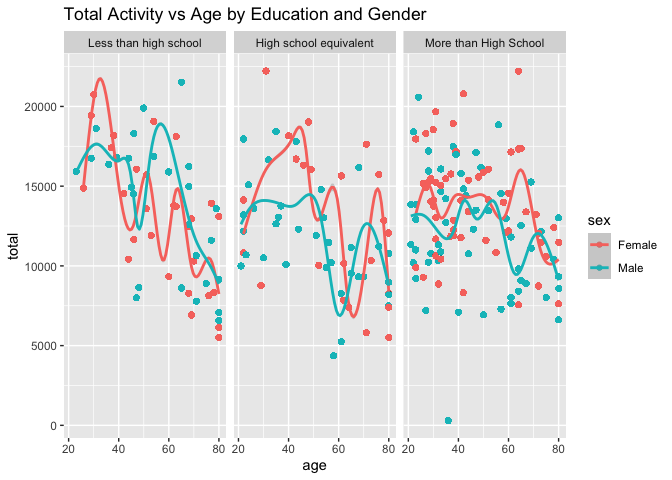
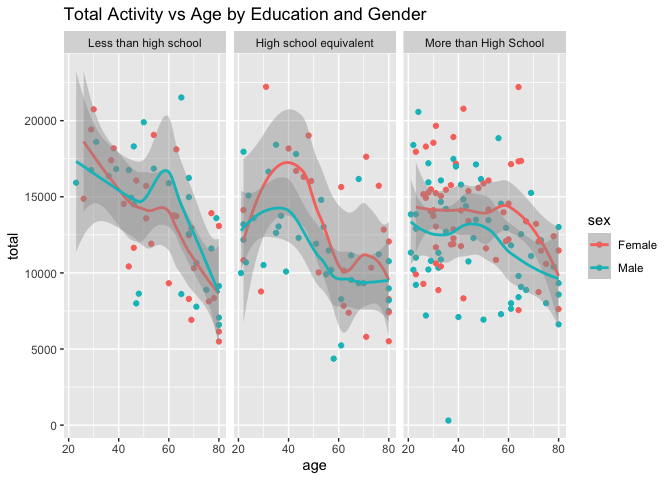
Finished the discrption part of this HW.

diff --git a/p8105_hw3_ys3765.md b/p8105_hw3_ys3765.md
@@ -3,7 +3,7 @@ p8105_hw3_ys3765
 Yixiao Sun
 2023-10-09
 
-\#Problem 1
+\#Load packages
 
 ``` r
 library(tidyverse)
@@ -23,7 +23,6 @@ library(tidyverse)
 ``` r
 library(p8105.datasets)
 library(ggplot2)
-data("instacart")
 ```
 
 \#Problem 2
@@ -95,28 +94,37 @@ print(states_2010)
     ## 13 Overall Health TX              16
     ## 14 Overall Health WA              10
 
+For year 2022, these following 6 states were observed at 7 or more
+locations:CT, FL, MA, NC, NJ, PA.
+
+For year 2010, these following 14 states were observed at 7 or more
+locations:CA, CO, FL, MA, MD, NC, NE, NJ, NY, OH, PA, SC, TX, WA.
+
+For this graph, the plot shows in each state the line pattern of people
+giving excellent response from year 2002 to year 2010.
+
 ``` r
 excellent<-df1_grouped_ordered%>%
   filter(response == "Excellent")%>%
   group_by(year,locationabbr)%>%
-  summarise(average = mean(data_value,.groups='drop'))
-```
+  summarise(average = mean(data_value),.groups='drop')
 
-    ## `summarise()` has grouped output by 'year'. You can override using the
-    ## `.groups` argument.
-
-``` r
 ggplot(excellent, aes(x = year, y = average, group = locationabbr, color = locationabbr)) +
   geom_line() +
   labs(title = "Average Value of 'Excellent' Responses Over Time", 
        x = "Year", 
-       y = "Average Value") +
-  theme_minimal() 
+       y = "Average Value")
 ```
 
     ## Warning: Removed 3 rows containing missing values (`geom_line()`).
 
 ![](p8105_hw3_ys3765_files/figure-gfm/construct-1.png)<!-- -->
+
+This following plot is used to compare the data value in NY between year
+2006 and year 2010 in different response group(From “Poor” to
+“Excellent”). It can be seen from the plot that though other classes
+responses didn’t make much differences, the overall values of the
+response “Very good” in 2010 is higher than that of 2006.
 
 ``` r
 ny_data <- df1_grouped_ordered %>%
@@ -180,21 +188,32 @@ clean_data <- merge_data %>%
                             ordered = TRUE))
 ```
 
+This is the first step, to import, clean, and combine the `nhanes_accel`
+and `nhanes_covar` datasets. I used the `pivot_longer` function to tidy
+the `nhanes_accel` dataset so it can be more clear for us to see more
+values. And using `mutate` ,`recode`, and `factor` function to set
+levels for the variables “Education Level” and “Sex”. And the final
+merged dataset,after exclude the participants less than 21 years of age
+and those who has missing values, the `clean_data` has in total 328320
+rows and 7 columns.
+
+This following table is to show the number of men and women in each
+education category. And with the following visualization of age
+distributions for men and women in each education category, we can see
+that for “Less than High School” and “More than High School” groups of
+education level, the age differences are subtle between men and women.
+However, for the education level of “High School Equivalent”, the
+overall age for man to attend High School is younger than that of woman.
+
 ``` r
 education_gender_table <- clean_data %>%
   group_by(education, sex) %>%
-  summarize(n_obs = n())
-```
+  summarize(n_obs = n(),.groups = "drop")
 
-    ## `summarise()` has grouped output by 'education'. You can override using the
-    ## `.groups` argument.
-
-``` r
 print(education_gender_table)
 ```
 
     ## # A tibble: 6 × 3
-    ## # Groups:   education [3]
     ##   education              sex    n_obs
     ##   <ord>                  <chr>  <int>
     ## 1 Less than high school  Female 40320
@@ -213,32 +232,53 @@ clean_data_plot =
 clean_data_plot
 ```
 
-![](p8105_hw3_ys3765_files/figure-gfm/Visualization%20of%20the%20age%20distribution%20for%20men%20and%20women%20in%20each%20education%20categoru-1.png)<!-- -->
+![](p8105_hw3_ys3765_files/figure-gfm/create%20a%20table-1.png)<!-- -->
+
+This following graph shows the activities differences between men and
+women of tatal activities in a 24-hour period in different education
+level across ages. All of these trend lines shows that as the age of
+person. increases, no matter which gender she or he is, after reaching a
+maximum point, would continue to decrease. And for the three education
+levels, male who is at “Less than High School” education level has a
+overall higher trend line than that of female. However, for the rest of
+two education levels, female shows higher daily activities value than
+male even though the age continues to grow.
 
 ``` r
 total<- clean_data%>%
         group_by(clean_data$seqn)%>%
-        mutate(total = sum(value))
+        mutate(total = sum(value))%>%
+        filter(table == "min1")
 
 ggplot(total,aes(x = age, y = total,color = sex))+
   geom_point()+
-  geom_smooth()+
-  facet_wrap(~education)+
+  geom_smooth(se = TRUE)+
+  facet_grid(~education)+
   labs(title = "Total Activity vs Age by Education and Gender")
 ```
 
-    ## `geom_smooth()` using method = 'gam' and formula = 'y ~ s(x, bs = "cs")'
+    ## `geom_smooth()` using method = 'loess' and formula = 'y ~ x'
 
 ![](p8105_hw3_ys3765_files/figure-gfm/total%20activity%20plot-1.png)<!-- -->
 
+This following plot shows the activities differences between men and
+women for one day particular in a 24-hour period in different education
+level across ages. From the first two education level, “Less than High
+School”, and “High School Equivalent”, the overall trend line and table
+points shows nearly no difference. For the level “More than High
+School”, the activities of both male and female in around min500 and
+min1250 are strongly high, especially for male in min1250(around 8
+o’clock in the evening).
+
 ``` r
-ggplot(clean_data, aes(x = table, y = value,color = sex))+
+clean_data_final<-clean_data%>% mutate(table = as.numeric(str_replace_all(table,"min","")))
+ggplot(clean_data_final, aes(x = table, y = value,color = sex))+
   geom_point(alpha = 0.5)+
   geom_smooth()+
   facet_wrap(~education)+
   labs(title = "Activity time over 24-Hours by Education and Gender")
 ```
 
-    ## `geom_smooth()` using method = 'loess' and formula = 'y ~ x'
+    ## `geom_smooth()` using method = 'gam' and formula = 'y ~ s(x, bs = "cs")'
 
-![](p8105_hw3_ys3765_files/figure-gfm/unnamed-chunk-2-1.png)<!-- -->
+![](p8105_hw3_ys3765_files/figure-gfm/24_hour%20activities-1.png)<!-- -->
